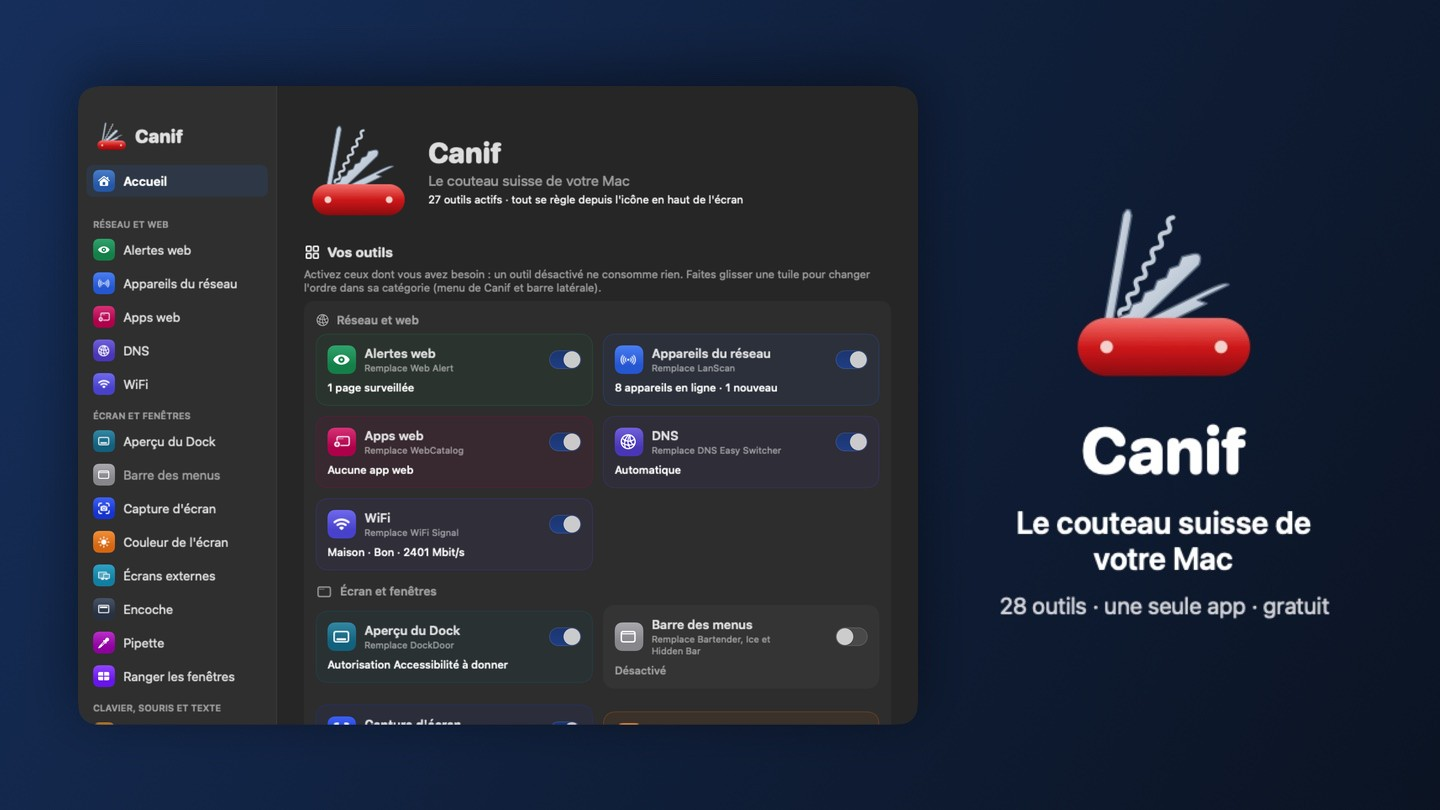
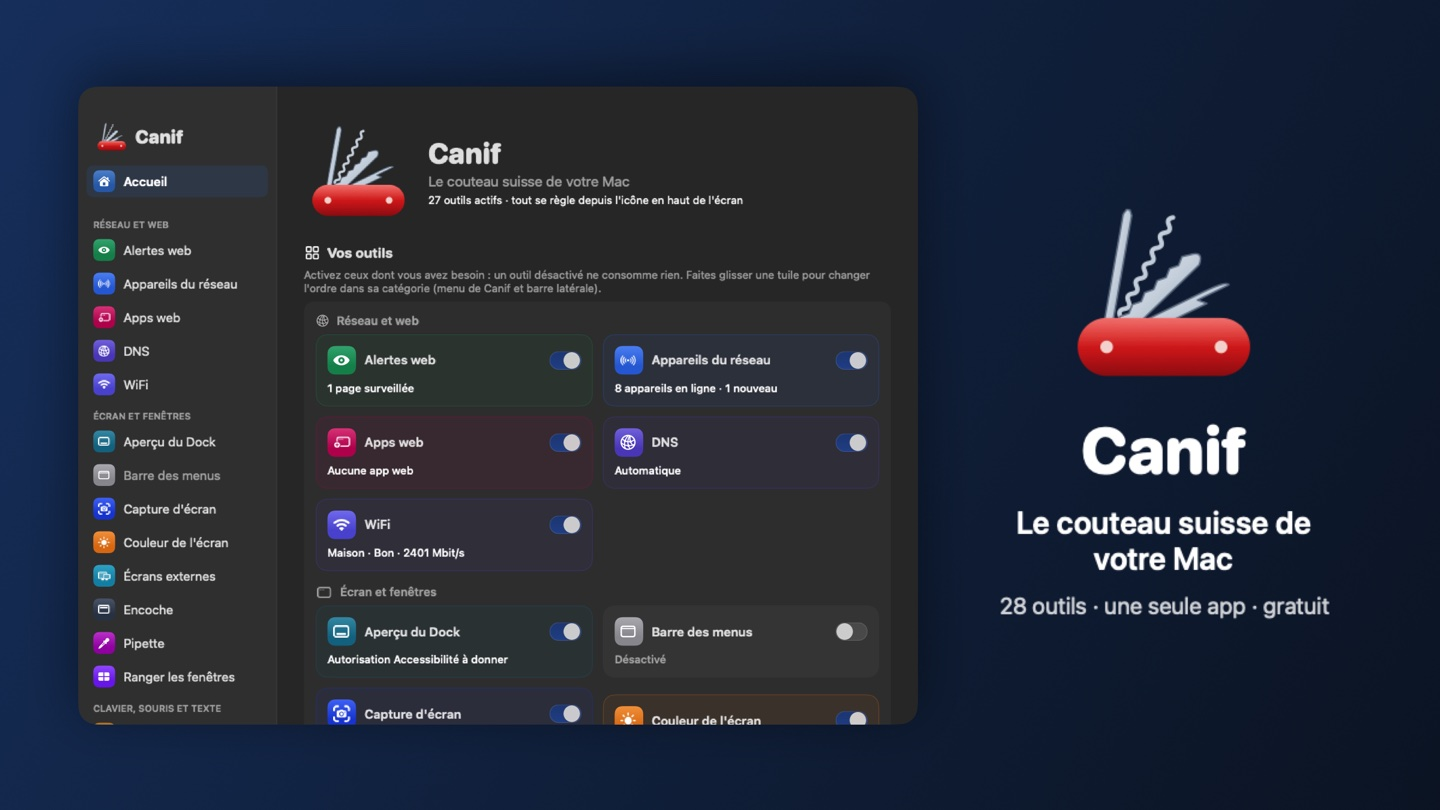
Canif 0.7.3 : noms enrichis, tri par nom et encoche lisible
Présentation sans noms d’apps remplacées, visuels natifs de démonstration en sept langues, import local HA par MAC et notes traduites.

diff --git a/index.html b/index.html
@@ -7,7 +7,7 @@
 <link rel="icon" href="icon.png">
 <meta name="description" content="Canif réunit 28 petits outils du Mac dans une seule app gratuite, Moka compris : WiFi, presse-papiers, capture d'écran, son, batterie, dictée, aperçu du Dock, moniteur système, encoche, apps web…">
 <meta property="og:title" content="Canif — le couteau suisse de votre Mac">
-<meta property="og:image" content="https://xavier38.github.io/canif/promo.jpg?v=071">
+<meta property="og:image" content="https://xavier38.github.io/canif/promo.jpg?v=073">
 <style>
   :root { --bg:#f3f7fc; --card:#fff; --ink:#0f1c2e; --muted:#4f5f73; --moss:#1f5fae; --forest:#1B3F6E; --line:#d8e2ee; }
   @media (prefers-color-scheme: dark) { :root { --bg:#0f1622; --card:#172233; --ink:#e8f0fa; --muted:#a3b2c6; --line:#26354a; --moss:#7fb2f0; } }
@@ -43,20 +43,20 @@
   </div>
   <p class="tag lang-fr" style="font-size:15px">Gratuit. macOS 14 Sonoma ou plus récent, Mac Apple Silicon (M1 ou plus récent).</p>
   <p class="tag lang-en" style="font-size:15px">Free. macOS 14 Sonoma or later, Apple Silicon Mac (M1 or later).</p><p class="tag lang-es" style="font-size:15px">Gratis. macOS 14 Sonoma o posterior, Mac con Apple Silicon (M1 o posterior).</p><p class="tag lang-pt" style="font-size:15px">Grátis. macOS 14 Sonoma ou posterior, Mac com Apple Silicon (M1 ou posterior).</p><p class="tag lang-nl" style="font-size:15px">Gratis. macOS 14 Sonoma of nieuwer, Mac met Apple Silicon (M1 of nieuwer).</p><p class="tag lang-de" style="font-size:15px">Kostenlos. macOS 14 Sonoma oder neuer, Mac mit Apple Silicon (M1 oder neuer).</p><p class="tag lang-it" style="font-size:15px">Gratis. macOS 14 Sonoma o versioni successive, Mac con Apple Silicon (M1 o successivo).</p>
-  <img class="promo lang-fr" src="promo-fr.jpg?v=071" alt="Canif : l'accueil avec ses outils">
-  <img class="promo lang-en" src="promo-en.jpg?v=071" alt="Canif: the home screen with its tools">
-  <img class="promo lang-es" src="promo-es.jpg?v=071" alt="Canif: la pantalla de inicio con sus herramientas">
-  <img class="promo lang-pt" src="promo-pt.jpg?v=071" alt="Canif: a tela inicial com suas ferramentas">
-  <img class="promo lang-nl" src="promo-nl.jpg?v=071" alt="Canif: het beginscherm met de tools">
-  <img class="promo lang-de" src="promo-de.jpg?v=071" alt="Canif: der Startbildschirm mit seinen Werkzeugen">
-  <img class="promo lang-it" src="promo-it.jpg?v=071" alt="Canif: la schermata iniziale con i suoi strumenti">
+  <img class="promo lang-fr" src="promo-fr.jpg?v=073" alt="Canif : l'accueil avec ses outils">
+  <img class="promo lang-en" src="promo-en.jpg?v=073" alt="Canif: the home screen with its tools">
+  <img class="promo lang-es" src="promo-es.jpg?v=073" alt="Canif: la pantalla de inicio con sus herramientas">
+  <img class="promo lang-pt" src="promo-pt.jpg?v=073" alt="Canif: a tela inicial com suas ferramentas">
+  <img class="promo lang-nl" src="promo-nl.jpg?v=073" alt="Canif: het beginscherm met de tools">
+  <img class="promo lang-de" src="promo-de.jpg?v=073" alt="Canif: der Startbildschirm mit seinen Werkzeugen">
+  <img class="promo lang-it" src="promo-it.jpg?v=073" alt="Canif: la schermata iniziale con i suoi strumenti">
 
   <h2 class="lang-fr">Une app au lieu de vingt-huit</h2><h2 class="lang-en">One app instead of twenty-eight</h2><h2 class="lang-es">Una app en lugar de veintiocho</h2><h2 class="lang-pt">Um app em vez de vinte e oito</h2><h2 class="lang-nl">Eén app in plaats van achtentwintig</h2><h2 class="lang-de">Eine App statt achtundzwanzig</h2><h2 class="lang-it">Un'app invece di ventotto</h2>
   <p class="lang-fr">Chaque outil s'active ou se coupe d'un clic. Mode standard pour aller à l'essentiel, mode expert pour tout régler. Tout se commande depuis l'icône en haut de l'écran, et les icônes des outils se placent juste à côté de celle de Canif.</p>
   <p class="lang-en">Each tool turns on or off with one click. Standard mode for the essentials, expert mode to fine-tune everything. Everything is reachable from the icon at the top of the screen, and the tools' icons sit right next to Canif's.</p><p class="lang-es">Cada herramienta se activa o desactiva con un clic. Modo estándar para lo esencial, modo experto para ajustarlo todo. Todo se controla desde el icono en la parte superior de la pantalla, y los iconos de las herramientas se colocan justo al lado del de Canif.</p><p class="lang-pt">Cada ferramenta liga ou desliga com um clique. Modo padrão para o essencial, modo avançado para ajustar tudo. Tudo é controlado pelo ícone no alto da tela, e os ícones das ferramentas ficam bem ao lado do ícone do Canif.</p><p class="lang-nl">Elke tool zet u met één klik aan of uit. Standaardmodus voor de basis, expertmodus om alles in te stellen. Alles bedient u via het symbool bovenaan het scherm, en de symbolen van de tools staan direct naast dat van Canif.</p><p class="lang-de">Jedes Werkzeug lässt sich mit einem Klick ein- oder ausschalten. Standardmodus für das Wesentliche, Expertenmodus für alle Einstellungen. Alles steuern Sie über das Symbol oben auf dem Bildschirm, und die Symbole der Werkzeuge sitzen direkt neben dem von Canif.</p><p class="lang-it">Ogni strumento si attiva o disattiva con un clic. Modalità standard per l'essenziale, modalità esperto per regolare tutto. Tutto si comanda dall'icona in alto sullo schermo, e le icone degli strumenti si mettono proprio accanto a quella di Canif.</p>
   <div class="grid">
     <div class="card"><h3 class="lang-fr">Appareils du réseau</h3><h3 class="lang-en">Network devices</h3><h3 class="lang-es">Dispositivos de la red</h3><h3 class="lang-pt">Dispositivos da rede</h3><h3 class="lang-nl">Netwerkapparaten</h3><h3 class="lang-de">Netzwerkgeräte</h3><h3 class="lang-it">Dispositivi di rete</h3>
-      <p class="lang-fr">Découvrez les appareils du réseau, affichez leurs adresses MAC et retrouvez vos noms importés de LanScan. Classez-les par pièce ou personne et surveillez les arrivées et les départs. Remplace LanScan. Vos noms personnalisés aident aussi à reconnaître le type, la marque et le modèle lorsqu’ils sont explicites, même hors ligne. Triez par IP ou MAC, par pièce ou par type, dans le sens croissant ou décroissant.</p><p class="lang-en">Discover network devices, show their MAC addresses and find your names imported from LanScan. Group them by room or person and monitor arrivals and departures. Replaces LanScan. Your custom names also help identify explicitly named device types, brands and models, even offline. Sort by IP or MAC, room or type, in ascending or descending order.</p><p class="lang-es">Descubra los dispositivos de la red, muestre sus direcciones MAC y recupere sus nombres importados de LanScan. Agrúpelos por habitación o persona y supervise las llegadas y salidas. Sustituye a LanScan. Sus nombres personalizados también ayudan a reconocer tipos, marcas y modelos explícitos, incluso sin conexión. Ordene por IP o MAC, habitación o tipo, en sentido ascendente o descendente.</p><p class="lang-pt">Descubra os dispositivos da rede, veja seus endereços MAC e recupere seus nomes importados do LanScan. Agrupe por cômodo ou pessoa e acompanhe chegadas e saídas. Substitui o LanScan. Seus nomes personalizados também ajudam a reconhecer tipos, marcas e modelos explícitos, mesmo off-line. Ordene por IP ou MAC, cômodo ou tipo, em ordem crescente ou decrescente.</p><p class="lang-nl">Ontdek netwerkapparaten, toon hun MAC-adressen en vind uw uit LanScan geïmporteerde namen terug. Groepeer op kamer of persoon en volg aankomst en vertrek. Vervangt LanScan. Uw eigen namen helpen ook expliciet vermelde typen, merken en modellen herkennen, ook offline. Sorteer oplopend of aflopend op IP- of MAC-adres, kamer of type.</p><p class="lang-de">Entdecken Sie Netzwerkgeräte, zeigen Sie deren MAC-Adressen an und finden Sie Ihre aus LanScan importierten Namen wieder. Gruppieren Sie nach Raum oder Person und verfolgen Sie Ankunft und Abwesenheit. Ersetzt LanScan. Ihre eigenen Namen helfen auch, ausdrücklich genannte Typen, Marken und Modelle offline zu erkennen. Sortieren Sie nach IP- oder MAC-Adresse, Raum oder Typ, aufsteigend oder absteigend.</p><p class="lang-it">Scopri i dispositivi di rete, mostra i loro indirizzi MAC e ritrova i tuoi nomi importati da LanScan. Raggruppa per stanza o persona e controlla arrivi e partenze. Sostituisce LanScan. I tuoi nomi personalizzati aiutano anche a riconoscere tipi, marche e modelli espliciti, anche offline. Ordina per IP o MAC, stanza o tipo, in ordine crescente o decrescente.</p></div>
+      <p class="lang-fr">Découvrez les appareils du réseau, leurs adresses MAC et vos noms personnalisés. Triez par nom, IP, MAC, pièce ou type, dans les deux sens. Un instantané local de Home Assistant peut compléter les noms, pièces et modèles par MAC, sans commander la domotique. Vos noms personnels restent prioritaires.</p><p class="lang-en">Discover network devices, MAC addresses and your custom names. Sort by name, IP, MAC, room or type in either direction. A local Home Assistant snapshot can enrich names, areas and models by MAC, without controlling home automation. Your personal names keep priority.</p><p class="lang-de">Entdecken Sie Netzwerkgeräte, MAC-Adressen und Ihre eigenen Namen. Sortieren Sie nach Name, IP, MAC, Raum oder Typ in beiden Richtungen. Ein lokaler Home-Assistant-Snapshot ergänzt Namen, Bereiche und Modelle über die MAC-Adresse, ohne die Hausautomation zu steuern. Eigene Namen haben Vorrang.</p><p class="lang-nl">Ontdek netwerkapparaten, MAC-adressen en uw eigen namen. Sorteer op naam, IP, MAC, kamer of type in beide richtingen. Een lokale Home Assistant-momentopname kan namen, ruimtes en modellen via MAC aanvullen, zonder de domotica te bedienen. Uw eigen namen houden voorrang.</p><p class="lang-es">Descubra los dispositivos de red, las direcciones MAC y sus nombres personalizados. Ordene por nombre, IP, MAC, habitación o tipo en ambos sentidos. Una instantánea local de Home Assistant puede completar nombres, zonas y modelos por MAC, sin controlar la domótica. Sus nombres personales tienen prioridad.</p><p class="lang-it">Scopri i dispositivi di rete, gli indirizzi MAC e i tuoi nomi personalizzati. Ordina per nome, IP, MAC, stanza o tipo in entrambe le direzioni. Un’istantanea locale di Home Assistant può completare nomi, aree e modelli tramite MAC, senza comandare la domotica. I tuoi nomi personali hanno la priorità.</p><p class="lang-pt">Descubra os dispositivos da rede, endereços MAC e seus nomes personalizados. Ordene por nome, IP, MAC, cômodo ou tipo nos dois sentidos. Um instantâneo local do Home Assistant pode complementar nomes, áreas e modelos pelo MAC, sem controlar a automação. Seus nomes pessoais têm prioridade.</p></div>
 
     <div class="card"><h3 class="lang-fr">WiFi</h3><h3 class="lang-en">WiFi</h3><h3 class="lang-es">Wi‑Fi</h3><h3 class="lang-pt">Wi‑Fi</h3><h3 class="lang-nl">wifi</h3><h3 class="lang-de">WLAN</h3><h3 class="lang-it">Wi‑Fi</h3>
       <p class="lang-fr">La qualité de votre WiFi en un coup d'œil, avec le signal en direct.</p><p class="lang-en">Your WiFi quality at a glance, with the live signal.</p><p class="lang-es">La calidad de su Wi‑Fi de un vistazo, con la señal en directo.</p><p class="lang-pt">A qualidade do seu Wi‑Fi num relance, com o sinal ao vivo.</p><p class="lang-nl">De kwaliteit van uw wifi in één oogopslag, met het signaal live.</p><p class="lang-de">Die Qualität Ihres WLANs auf einen Blick, mit dem Signal live.</p><p class="lang-it">La qualità del tuo Wi‑Fi a colpo d'occhio, con il segnale in tempo reale.</p></div>
@@ -85,7 +85,7 @@
     <div class="card"><h3 class="lang-fr">Système</h3><h3 class="lang-en">System</h3><h3 class="lang-es">Sistema</h3><h3 class="lang-pt">Sistema</h3><h3 class="lang-nl">Systeem</h3><h3 class="lang-de">System</h3><h3 class="lang-it">Sistema</h3>
       <p class="lang-fr">Processeur, carte graphique, mémoire, disques, réseau, températures et batterie, avec la carte de ce qui remplit votre disque.</p><p class="lang-en">CPU, GPU, memory, disks, network, temperatures and battery, with a map of what fills your disk.</p><p class="lang-es">Procesador, gráfica, memoria, discos, red, temperaturas y batería, con un mapa de lo que llena su disco.</p><p class="lang-pt">Processador, GPU, memória, discos, rede, temperaturas e bateria, com um mapa do que enche seu disco.</p><p class="lang-nl">Processor, GPU, geheugen, schijven, netwerk, temperaturen en batterij, met een kaart van wat uw schijf vult.</p><p class="lang-de">Prozessor, Grafik, Speicher, Festplatten, Netzwerk, Temperaturen und Batterie, mit einer Karte dessen, was Ihre Festplatte füllt.</p><p class="lang-it">Processore, grafica, memoria, dischi, rete, temperature e batteria, con una mappa di ciò che riempie il disco.</p></div>
     <div class="card"><h3 class="lang-fr">Encoche</h3><h3 class="lang-en">Notch</h3><h3 class="lang-es">Muesca</h3><h3 class="lang-pt">Notch</h3><h3 class="lang-nl">Notch</h3><h3 class="lang-de">Notch</h3><h3 class="lang-it">Notch</h3>
-      <p class="lang-fr">Une île dynamique sous l'encoche : la musique de n'importe quelle app, volume et luminosité, agenda avec alerte avant les réunions, Raccourcis, appareils Bluetooth, miroir, note et plateau de fichiers. Avec des gestes. Au repos, seul un petit témoin signale une activité. Au survol, l’encoche s’élargit modérément ; les widgets s’ouvrent par un clic.</p><p class="lang-en">A dynamic island under the notch: music from any app, volume and brightness, calendar with meeting alerts, Shortcuts, Bluetooth devices, mirror, notes and a file tray. With gestures. A small indicator signals activity at rest. Hovering widens the notch moderately; click to open the widgets.</p><p class="lang-es">Una isla dinámica bajo la muesca: música de cualquier app, volumen y brillo, agenda con aviso de reuniones, Atajos, dispositivos Bluetooth, espejo, notas y una bandeja de archivos. Con gestos. Un pequeño indicador señala actividad en reposo. Al pasar el puntero, la muesca se ensancha moderadamente; haga clic para abrir los widgets.</p><p class="lang-pt">Uma ilha dinâmica sob o notch: música de qualquer app, volume e brilho, agenda com alerta de reuniões, Atalhos, dispositivos Bluetooth, espelho, notas e uma bandeja de arquivos. Com gestos. Um pequeno indicador sinaliza atividade em repouso. Ao passar o cursor, o recorte fica um pouco mais largo; clique para abrir os widgets.</p><p class="lang-nl">Een dynamisch eiland onder de notch: muziek uit elke app, volume en helderheid, agenda met vergadermelding, Opdrachten, Bluetooth-apparaten, spiegel, notities en een bestandsbak. Met gebaren. Een klein signaal geeft activiteit aan. Bij aanwijzen wordt de notch iets breder; klik om de widgets te openen.</p><p class="lang-de">Eine dynamische Insel unter der Notch: Musik aus jeder App, Lautstärke und Helligkeit, Kalender mit Meeting-Hinweis, Kurzbefehle, Bluetooth-Geräte, Spiegel, Notizen und eine Dateiablage. Mit Gesten. Ein kleines Signal zeigt Aktivitäten an. Beim Darüberfahren wird die Notch etwas breiter; klicken Sie, um die Widgets zu öffnen.</p><p class="lang-it">Un'isola dinamica sotto il notch: musica da qualsiasi app, volume e luminosità, agenda con avviso delle riunioni, Comandi rapidi, dispositivi Bluetooth, specchio, note e un vassoio per i file. Con i gesti. Un piccolo indicatore segnala un’attività a riposo. Passando il puntatore, la tacca si allarga moderatamente; fai clic per aprire i widget.</p></div>
+      <p class="lang-fr">Encoche : au survol, la largeur s’adapte aux informations, avec le titre et l’artiste ou le rendez-vous lisibles. Le volet inférieur reste accessible au clic.</p><p class="lang-en">Notch: its hover width adapts to the information, keeping the title and artist or calendar event readable. Click to open the lower panel.</p><p class="lang-es">Muesca: al situar el puntero encima, el ancho se adapta a la información para mostrar el título y el artista o la cita. Un clic abre el panel inferior.</p><p class="lang-pt">Recorte: ao passar o cursor, a largura se adapta às informações para mostrar o título e o artista ou o compromisso. Um clique abre o painel inferior.</p><p class="lang-nl">Notch: bij aanwijzen past de breedte zich aan de informatie aan, zodat titel en artiest of afspraak leesbaar blijven. Een klik opent het onderste paneel.</p><p class="lang-de">Notch: Beim Zeigen passt sich die Breite den Informationen an, sodass Titel und Interpret oder Termin lesbar bleiben. Ein Klick öffnet das untere Panel.</p><p class="lang-it">Tacca: al passaggio del puntatore, la larghezza si adatta alle informazioni per mostrare titolo e artista o appuntamento. Un clic apre il pannello inferiore.</p></div>
     <div class="card"><h3 class="lang-fr">Apps web</h3><h3 class="lang-en">Web apps</h3><h3 class="lang-es">Apps web</h3><h3 class="lang-pt">Apps web</h3><h3 class="lang-nl">Webapps</h3><h3 class="lang-de">Web-Apps</h3><h3 class="lang-it">App web</h3>
       <p class="lang-fr">Transformez un site en vraie app pour le Mac, avec sa propre session, ses notifications et son icône.</p><p class="lang-en">Turn a website into a real Mac app, with its own session, notifications and icon.</p><p class="lang-es">Convierta un sitio en una app de verdad para el Mac, con su propia sesión, notificaciones e icono.</p><p class="lang-pt">Transforme um site em um app de verdade para o Mac, com sessão, notificações e ícone próprios.</p><p class="lang-nl">Maak van een website een echte Mac-app, met een eigen sessie, meldingen en symbool.</p><p class="lang-de">Machen Sie aus einer Website eine echte Mac-App, mit eigener Sitzung, Mitteilungen und eigenem Symbol.</p><p class="lang-it">Trasforma un sito in una vera app per Mac, con sessione, notifiche e icona proprie.</p></div>
     <div class="card"><h3 class="lang-fr">Presse-papiers</h3><h3 class="lang-en">Clipboard</h3><h3 class="lang-es">Portapapeles</h3><h3 class="lang-pt">Área de transferência</h3><h3 class="lang-nl">Klembord</h3><h3 class="lang-de">Zwischenablage</h3><h3 class="lang-it">Appunti</h3>

diff --git a/notes/0.7.3.es.html b/notes/0.7.3.es.html
@@ -1,0 +1,15 @@
+<!doctype html>
+<html lang="es"><head><meta charset="utf-8"><title>Novedades de Canif 0.7.3</title>
+<style>
+  :root { color-scheme: light dark; }
+  body { font: 15px/1.5 -apple-system, BlinkMacSystemFont, sans-serif; margin: 14px 18px; color: #14213d; }
+  h1 { font-size: 18px; margin: 0 0 8px; }
+  ul { margin: 0; padding-left: 20px; } li { margin: 4px 0; }
+  @media (prefers-color-scheme: dark) { body { color: #e8eefc; background: transparent; } }
+</style></head>
+<body><h1>Novedades de Canif 0.7.3</h1><ul>
+  <li>Dispositivos: se añade la ordenación por nombre, con sentido ascendente o descendente para todos los criterios.</li>
+  <li>Importación local de nombres, zonas y modelos de Home Assistant por dirección MAC. Sus nombres personales conservan la prioridad; no se envían órdenes a la domótica ni se cambian las observaciones de presencia.</li>
+  <li>Muesca: al situar el puntero encima, el ancho se adapta a la información para mostrar el título y el artista o la cita. Un clic abre el panel inferior.</li>
+  <li>Se han retirado de la pantalla inicial las comparaciones y los nombres de las aplicaciones sustituidas. Las etiquetas de importación de nombres son neutras.</li>
+</ul></body></html>

diff --git a/notes/0.7.3.fr.html b/notes/0.7.3.fr.html
@@ -1,0 +1,15 @@
+<!doctype html>
+<html lang="fr"><head><meta charset="utf-8"><title>Nouveautés de Canif 0.7.3</title>
+<style>
+  :root { color-scheme: light dark; }
+  body { font: 15px/1.5 -apple-system, BlinkMacSystemFont, sans-serif; margin: 14px 18px; color: #14213d; }
+  h1 { font-size: 18px; margin: 0 0 8px; }
+  ul { margin: 0; padding-left: 20px; } li { margin: 4px 0; }
+  @media (prefers-color-scheme: dark) { body { color: #e8eefc; background: transparent; } }
+</style></head>
+<body><h1>Nouveautés de Canif 0.7.3</h1><ul>
+  <li>Appareils : tri par nom ajouté, avec le choix croissant ou décroissant pour tous les critères.</li>
+  <li>Import local des noms, pièces et modèles de Home Assistant par correspondance MAC. Les noms personnels restent prioritaires, aucune commande n’est envoyée à la domotique et l’import ne change pas les observations de présence.</li>
+  <li>Encoche : au survol, la largeur s’adapte aux informations, avec le titre et l’artiste ou le rendez-vous lisibles. Le volet inférieur reste accessible au clic.</li>
+  <li>Les comparaisons et noms des applications remplacées ont été retirés de l’accueil. Les libellés d’import de noms sont neutres.</li>
+</ul></body></html>

diff --git a/notes/0.7.3.pt.html b/notes/0.7.3.pt.html
@@ -1,0 +1,15 @@
+<!doctype html>
+<html lang="pt"><head><meta charset="utf-8"><title>Novidades do Canif 0.7.3</title>
+<style>
+  :root { color-scheme: light dark; }
+  body { font: 15px/1.5 -apple-system, BlinkMacSystemFont, sans-serif; margin: 14px 18px; color: #14213d; }
+  h1 { font-size: 18px; margin: 0 0 8px; }
+  ul { margin: 0; padding-left: 20px; } li { margin: 4px 0; }
+  @media (prefers-color-scheme: dark) { body { color: #e8eefc; background: transparent; } }
+</style></head>
+<body><h1>Novidades do Canif 0.7.3</h1><ul>
+  <li>Dispositivos: ordenação por nome adicionada, com ordem crescente ou decrescente em todos os critérios.</li>
+  <li>Importação local de nomes, áreas e modelos do Home Assistant pelo endereço MAC. Seus nomes pessoais têm prioridade; nenhum comando é enviado à automação e a importação não altera os registros de presença.</li>
+  <li>Recorte: ao passar o cursor, a largura se adapta às informações para mostrar o título e o artista ou o compromisso. Um clique abre o painel inferior.</li>
+  <li>As comparações e os nomes dos apps substituídos foram removidos da tela inicial. Os rótulos de importação de nomes são neutros.</li>
+</ul></body></html>

diff --git a/notes/0.7.3.it.html b/notes/0.7.3.it.html
@@ -1,0 +1,15 @@
+<!doctype html>
+<html lang="it"><head><meta charset="utf-8"><title>Novità di Canif 0.7.3</title>
+<style>
+  :root { color-scheme: light dark; }
+  body { font: 15px/1.5 -apple-system, BlinkMacSystemFont, sans-serif; margin: 14px 18px; color: #14213d; }
+  h1 { font-size: 18px; margin: 0 0 8px; }
+  ul { margin: 0; padding-left: 20px; } li { margin: 4px 0; }
+  @media (prefers-color-scheme: dark) { body { color: #e8eefc; background: transparent; } }
+</style></head>
+<body><h1>Novità di Canif 0.7.3</h1><ul>
+  <li>Dispositivi: aggiunto l’ordinamento per nome, crescente o decrescente per tutti i criteri.</li>
+  <li>Importazione locale di nomi, aree e modelli da Home Assistant tramite indirizzo MAC. I tuoi nomi personali hanno la priorità; non vengono inviati comandi alla domotica e l’importazione non modifica le osservazioni di presenza.</li>
+  <li>Tacca: al passaggio del puntatore, la larghezza si adatta alle informazioni per mostrare titolo e artista o appuntamento. Un clic apre il pannello inferiore.</li>
+  <li>Confronti e nomi delle app sostituite sono stati rimossi dalla schermata iniziale. Le etichette di importazione dei nomi sono neutre.</li>
+</ul></body></html>

diff --git a/notes/0.7.3.de.html b/notes/0.7.3.de.html
@@ -1,0 +1,15 @@
+<!doctype html>
+<html lang="de"><head><meta charset="utf-8"><title>Neu in Canif 0.7.3</title>
+<style>
+  :root { color-scheme: light dark; }
+  body { font: 15px/1.5 -apple-system, BlinkMacSystemFont, sans-serif; margin: 14px 18px; color: #14213d; }
+  h1 { font-size: 18px; margin: 0 0 8px; }
+  ul { margin: 0; padding-left: 20px; } li { margin: 4px 0; }
+  @media (prefers-color-scheme: dark) { body { color: #e8eefc; background: transparent; } }
+</style></head>
+<body><h1>Neu in Canif 0.7.3</h1><ul>
+  <li>Geräte: Sortieren nach Namen ergänzt, mit aufsteigender oder absteigender Reihenfolge für alle Kriterien.</li>
+  <li>Lokaler Import von Namen, Bereichen und Modellen aus Home Assistant über die MAC-Adresse. Eigene Namen haben Vorrang. Es werden keine Steuerbefehle gesendet; der Import ändert keine Anwesenheitsbeobachtungen.</li>
+  <li>Notch: Beim Zeigen passt sich die Breite den Informationen an, sodass Titel und Interpret oder Termin lesbar bleiben. Ein Klick öffnet das untere Panel.</li>
+  <li>Vergleiche und Namen ersetzter Apps wurden vom Startbildschirm entfernt. Die Beschriftungen zum Namensimport sind neutral.</li>
+</ul></body></html>

diff --git a/notes/0.7.3.nl.html b/notes/0.7.3.nl.html
@@ -1,0 +1,15 @@
+<!doctype html>
+<html lang="nl"><head><meta charset="utf-8"><title>Nieuw in Canif 0.7.3</title>
+<style>
+  :root { color-scheme: light dark; }
+  body { font: 15px/1.5 -apple-system, BlinkMacSystemFont, sans-serif; margin: 14px 18px; color: #14213d; }
+  h1 { font-size: 18px; margin: 0 0 8px; }
+  ul { margin: 0; padding-left: 20px; } li { margin: 4px 0; }
+  @media (prefers-color-scheme: dark) { body { color: #e8eefc; background: transparent; } }
+</style></head>
+<body><h1>Nieuw in Canif 0.7.3</h1><ul>
+  <li>Apparaten: sorteren op naam toegevoegd, met oplopende of aflopende volgorde voor alle criteria.</li>
+  <li>Lokale import van namen, ruimtes en modellen uit Home Assistant via het MAC-adres. Uw eigen namen houden voorrang. Er worden geen opdrachten naar de domotica gestuurd en de import verandert geen aanwezigheidswaarnemingen.</li>
+  <li>Notch: bij aanwijzen past de breedte zich aan de informatie aan, zodat titel en artiest of afspraak leesbaar blijven. Een klik opent het onderste paneel.</li>
+  <li>Vergelijkingen en namen van vervangen apps zijn van het beginscherm verwijderd. De labels voor naamimport zijn neutraal.</li>
+</ul></body></html>

diff --git a/notes/0.7.3.en.html b/notes/0.7.3.en.html
@@ -1,0 +1,15 @@
+<!doctype html>
+<html lang="en"><head><meta charset="utf-8"><title>What's new in Canif 0.7.3</title>
+<style>
+  :root { color-scheme: light dark; }
+  body { font: 15px/1.5 -apple-system, BlinkMacSystemFont, sans-serif; margin: 14px 18px; color: #14213d; }
+  h1 { font-size: 18px; margin: 0 0 8px; }
+  ul { margin: 0; padding-left: 20px; } li { margin: 4px 0; }
+  @media (prefers-color-scheme: dark) { body { color: #e8eefc; background: transparent; } }
+</style></head>
+<body><h1>What's new in Canif 0.7.3</h1><ul>
+  <li>Devices: added sorting by name, with ascending or descending order for every criterion.</li>
+  <li>Local import of Home Assistant names, areas and models matched by MAC address. Personal names keep priority, no commands are sent to home automation, and importing does not change presence observations.</li>
+  <li>Notch: its hover width adapts to the information, keeping the title and artist or calendar event readable. Click to open the lower panel.</li>
+  <li>Comparisons and names of replaced apps have been removed from the home screen. Name import labels are neutral.</li>
+</ul></body></html>

diff --git a/README.md b/README.md
@@ -12,19 +12,19 @@ Your Mac's Swiss army knife: 28 tools in one free app, in 7 languages. Moka is i
 <a href="https://xavier38.github.io/canif/confidentialite.html">Confidentialité / Privacy</a>
 </p>
 
-<p align="center"><img src="promo-fr.jpg?v=071" width="720" alt="Canif"></p>
+<p align="center"><img src="promo-fr.jpg?v=073" width="720" alt="Canif"></p>
 
-Version 0.7.2 · Mac Apple Silicon, macOS 14 ou plus récent · Apple Silicon Mac, macOS 14 or later
+Version 0.7.3 · Mac Apple Silicon, macOS 14 ou plus récent · Apple Silicon Mac, macOS 14 or later
 
-## Nouveautés 0.7.2 / What’s new
+## Nouveautés 0.7.3 / What’s new
 
-Appareils du réseau : tri par adresse MAC et choix croissant ou décroissant pour tous les modes (pièce ou personne, type, adresse IP et adresse MAC). Le sens est mémorisé et s’applique aussi aux appareils dans chaque groupe. Les adresses inconnues restent en fin de liste. [Notes en français](https://xavier38.github.io/canif/notes/0.7.2.fr.html) · [English](https://xavier38.github.io/canif/notes/0.7.2.en.html) · [Deutsch](https://xavier38.github.io/canif/notes/0.7.2.de.html) · [Nederlands](https://xavier38.github.io/canif/notes/0.7.2.nl.html) · [Español](https://xavier38.github.io/canif/notes/0.7.2.es.html) · [Italiano](https://xavier38.github.io/canif/notes/0.7.2.it.html) · [Português](https://xavier38.github.io/canif/notes/0.7.2.pt.html).
+Appareils : tri par nom ajouté, avec le choix croissant ou décroissant pour tous les critères. Import local des noms, pièces et modèles de Home Assistant par correspondance MAC. Les noms personnels restent prioritaires, aucune commande n’est envoyée à la domotique et l’import ne change pas les observations de présence. Encoche : au survol, la largeur s’adapte aux informations, avec le titre et l’artiste ou le rendez-vous lisibles. Le volet inférieur reste accessible au clic. Les comparaisons et noms des applications remplacées ont été retirés de l’accueil. Les libellés d’import de noms sont neutres. [Notes en français](https://xavier38.github.io/canif/notes/0.7.3.fr.html) · [English](https://xavier38.github.io/canif/notes/0.7.3.en.html) · [Deutsch](https://xavier38.github.io/canif/notes/0.7.3.de.html) · [Nederlands](https://xavier38.github.io/canif/notes/0.7.3.nl.html) · [Español](https://xavier38.github.io/canif/notes/0.7.3.es.html) · [Italiano](https://xavier38.github.io/canif/notes/0.7.3.it.html) · [Português](https://xavier38.github.io/canif/notes/0.7.3.pt.html).
 
 ## 🇫🇷 Les 28 outils
 
 | Outil | Ce qu'il fait |
 |---|---|
-| 🌐 **Appareils du réseau** | Appareils connectés, adresses MAC affichables, noms importés de LanScan, pièces et personnes, tri IP/MAC croissant ou décroissant, surveillance et réveil à distance. |
+| 🌐 **Appareils du réseau** | Appareils connectés, adresses MAC affichables, noms personnalisés importés, pièces et personnes, tri par nom/IP/MAC croissant ou décroissant, enrichissement Home Assistant, surveillance et réveil à distance. |
 | 📶 **WiFi** | La qualité de votre WiFi en un coup d'œil, avec le signal en direct. |
 | 🌍 **Horloges** | L'heure de vos villes préférées dans la barre des menus. |
 | 🌐 **DNS** | Changez de DNS en un clic : plus rapide, plus sûr, sans pub. |
@@ -61,7 +61,7 @@ Chaque outil s'active ou se coupe d'un clic, se règle en mode standard ou exper
 
 | Tool | What it does |
 |---|---|
-| 🌐 **Network devices** | Connected devices, optional MAC addresses in the list, names imported from LanScan, rooms and people, ascending or descending IP/MAC sorting, monitoring and Wake-on-LAN. |
+| 🌐 **Network devices** | Connected devices, optional MAC addresses in the list, imported custom names, rooms and people, ascending or descending name/IP/MAC sorting, Home Assistant enrichment, monitoring and Wake-on-LAN. |
 | 📶 **WiFi** | Your WiFi quality at a glance, with the live signal. |
 | 🌍 **Clocks** | The time in your favourite cities, in the menu bar. |
 | 🌐 **DNS** | Switch DNS in one click: faster, safer, ad-free. |
